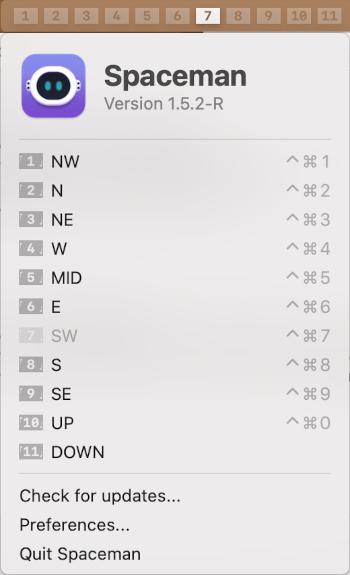
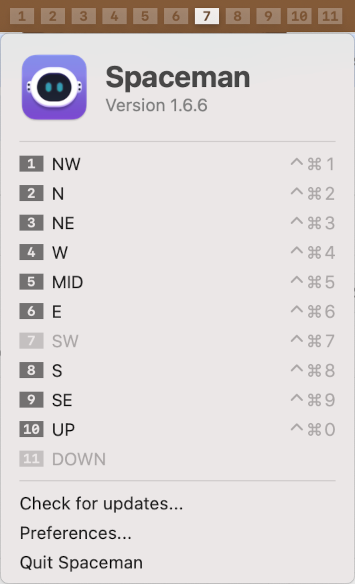
Updated documentation images

diff --git a/README.md b/README.md
@@ -39,7 +39,7 @@ The meaning of the icons from left to right are:
 
 ## Preferences
 
-<img src="Images/Preferences-3a.png" width="66%" height="auto">
+<img src="Images/Preferences-4a.png" width="66%" height="auto">
 
 The style and the name of a space can be changed in preferences (shown above). A space is named by selecting the space from the dropdown, typing a name up to 4 characters and clicking the 'Update name' button.
 
@@ -73,7 +73,7 @@ selected, and the menu option will be disabled.
 
 - Spaceman needs to know which shortcuts to send:
 
-<img src="Images/Preferences-3b.png" width="66%" height="auto">
+<img src="Images/Preferences-4b.png" width="66%" height="auto">
 
 ## Remote Refresh
 
